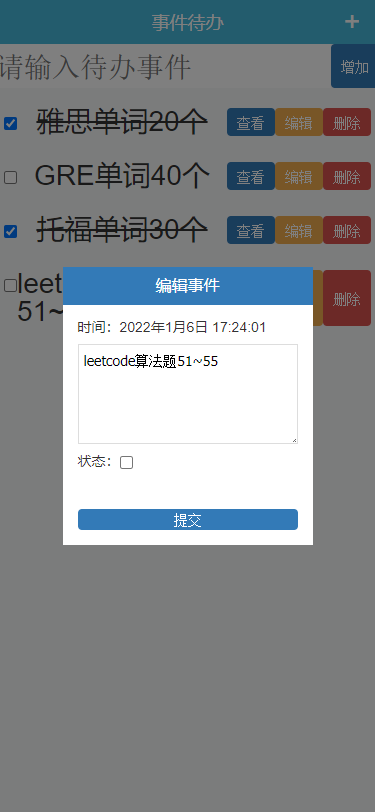
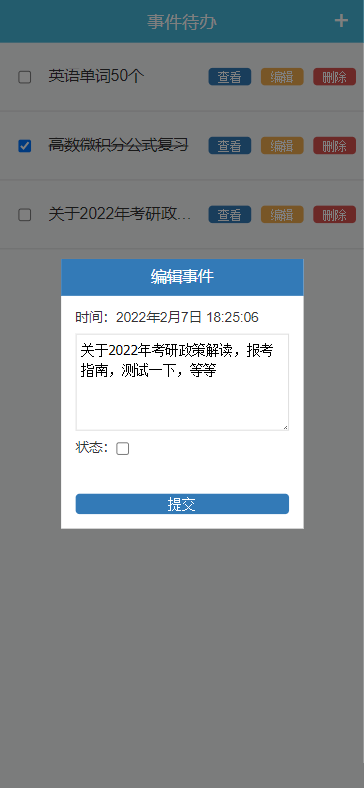
[upgrade]样式更新

diff --git a/src/assets/css/border.css b/src/assets/css/border.css
@@ -10,9 +10,8 @@
 .border-rightbottom,
 .border-topright,
 .border-bottomleft {
-  position: relative;
+    position: relative;
 }
-
 .border::before,
 .border-top::before,
 .border-right::before,
@@ -32,4 +31,152 @@
 .border-bottomleft::after {
   content: "\0020";
   overflow: hidden;
+  position: absolute;
+}
+/* border
+ * 因，边框是由伪元素区域遮盖在父级
+ * 故，子级若有交互，需要对子级设置
+ * 定位 及 z轴
+ */
+.border::before {
+  box-sizing: border-box;
+  top: 0;
+  left: 0;
+  height: 100%;
+  width: 100%;
+  border: 1px solid #eaeaea;
+  transform-origin: 0 0;
+}
+.border-top::before,
+.border-bottom::before,
+.border-topbottom::before,
+.border-topbottom::after,
+.border-topleft::before,
+.border-rightbottom::after,
+.border-topright::before,
+.border-bottomleft::before {
+  left: 0;
+  width: 100%;
+  height: 1px;
+}
+.border-right::before,
+.border-left::before,
+.border-rightleft::before,
+.border-rightleft::after,
+.border-topleft::after,
+.border-rightbottom::before,
+.border-topright::after,
+.border-bottomleft::after {
+  top: 0;
+  width: 1px;
+  height: 100%;
+}
+.border-top::before,
+.border-topbottom::before,
+.border-topleft::before,
+.border-topright::before {
+  border-top: 1px solid #eaeaea;
+  transform-origin: 0 0;
+}
+.border-right::before,
+.border-rightbottom::before,
+.border-rightleft::before,
+.border-topright::after {
+  border-right: 1px solid #eaeaea;
+  transform-origin: 100% 0;
+}
+.border-bottom::before,
+.border-topbottom::after,
+.border-rightbottom::after,
+.border-bottomleft::before {
+  border-bottom: 1px solid #eaeaea;
+  transform-origin: 0 100%;
+}
+.border-left::before,
+.border-topleft::after,
+.border-rightleft::after,
+.border-bottomleft::after {
+  border-left: 1px solid #eaeaea;
+  transform-origin: 0 0;
+}
+.border-top::before,
+.border-topbottom::before,
+.border-topleft::before,
+.border-topright::before {
+  top: 0;
+}
+.border-right::before,
+.border-rightleft::after,
+.border-rightbottom::before,
+.border-topright::after {
+  right: 0;
+}
+.border-bottom::before,
+.border-topbottom::after,
+.border-rightbottom::after,
+.border-bottomleft::after {
+  bottom: 0;
+}
+.border-left::before,
+.border-rightleft::before,
+.border-topleft::after,
+.border-bottomleft::before {
+  left: 0;
+}
+@media (max--moz-device-pixel-ratio: 1.49), (-webkit-max-device-pixel-ratio: 1.49), (max-device-pixel-ratio: 1.49), (max-resolution: 143dpi), (max-resolution: 1.49dppx) {
+  /* 默认值，无需重置 */
+}
+@media (min--moz-device-pixel-ratio: 1.5) and (max--moz-device-pixel-ratio: 2.49), (-webkit-min-device-pixel-ratio: 1.5) and (-webkit-max-device-pixel-ratio: 2.49), (min-device-pixel-ratio: 1.5) and (max-device-pixel-ratio: 2.49), (min-resolution: 144dpi) and (max-resolution: 239dpi), (min-resolution: 1.5dppx) and (max-resolution: 2.49dppx) {
+  .border::before {
+    width: 200%;
+    height: 200%;
+    transform: scale(.5);
+  }
+  .border-top::before,
+  .border-bottom::before,
+  .border-topbottom::before,
+  .border-topbottom::after,
+  .border-topleft::before,
+  .border-rightbottom::after,
+  .border-topright::before,
+  .border-bottomleft::before {
+    transform: scaleY(.5);
+  }
+  .border-right::before,
+  .border-left::before,
+  .border-rightleft::before,
+  .border-rightleft::after,
+  .border-topleft::after,
+  .border-rightbottom::before,
+  .border-topright::after,
+  .border-bottomleft::after {
+    transform: scaleX(.5);
+  }
+}
+@media (min--moz-device-pixel-ratio: 2.5), (-webkit-min-device-pixel-ratio: 2.5), (min-device-pixel-ratio: 2.5), (min-resolution: 240dpi), (min-resolution: 2.5dppx) {
+  .border::before {
+    width: 300%;
+    height: 300%;
+    transform: scale(.33333);
+  }
+  .border-top::before,
+  .border-bottom::before,
+  .border-topbottom::before,
+  .border-topbottom::after,
+  .border-topleft::before,
+  .border-rightbottom::after,
+  .border-topright::before,
+  .border-bottomleft::before {
+    transform: scaleY(.33333);
+  }
+  .border-right::before,
+  .border-left::before,
+  .border-rightleft::before,
+  .border-rightleft::after,
+  .border-topleft::after,
+  .border-rightbottom::before,
+  .border-topright::after,
+  .border-bottomleft::after {
+    transform: scaleX(.33333);
+  }
 }

diff --git a/src/components/TodoItem/index.js b/src/components/TodoItem/index.js
@@ -4,18 +4,18 @@ import './index.scss';
 
 function TodoItem (props) {
 
-  const { data, openCheckModal, openEditModal, completeItem, removeItem } = props;
+  const { dataItem, openCheckModal, openEditModal, completeItem, removeItem } = props;
 
   return (
     <li className="todo-item">
       <div className="check-box">
-        <input type="checkbox" checked={data.completed} onChange={() => completeItem(data.id)} />
+        <input type="checkbox" checked={dataItem.completed} onChange={() => completeItem(dataItem.id)} />
       </div>
-      <span className="content" style={{'textDecoration': data.completed ? 'line-through' : 'none'}}>{data.content}</span>
+      <span className="content" style={{'textDecoration': dataItem.completed ? 'line-through' : 'none'}}>{dataItem.content}</span>
       <div className="btn-group">
-        <button className="btn btn-primary" onClick={() => openCheckModal(data.id)}>查看</button>
-        <button className="btn btn-warning" onClick={() => openEditModal(data.id)}>编辑</button>
-        <button className="btn btn-danger" onClick={() => removeItem(data.id)}>删除</button>
+        <button className="btn btn-primary" onClick={() => openCheckModal(dataItem.id)}>查看</button>
+        <button className="btn btn-warning" onClick={() => openEditModal(dataItem.id)}>编辑</button>
+        <button className="btn btn-danger" onClick={() => removeItem(dataItem.id)}>删除</button>
       </div>
     </li>
   );

diff --git a/src/components/TodoItem/index.scss b/src/components/TodoItem/index.scss
@@ -1,9 +1,35 @@
 .todo-item {
   display: flex;
-  justify-content: space-between;
-  margin-bottom: 6px;
-  padding: 10px 4px;
+  flex-direction: row;
+  align-items: center;
+  height: .7rem;
+  border-bottom: 1px solid #ddd;
+
+  .check-box {
+    display: flex;
+    justify-content: center;
+    align-items: center;
+    width: .5rem;
+    height: .5rem;
+  }
+
+  .content {
+    flex: 1;
+    overflow:hidden;
+    text-overflow:ellipsis;
+    white-space:nowrap;
+    min-width:0;
+    font-size: .16rem;
+  }
+
   .btn-group {
     display: flex;
+    flex-direction: row;
+    width: 1.7rem;
+
+    .btn {
+      margin-left: .1rem;
+      font-size: .12rem;
+    }
   }
 }

diff --git a/src/components/Modal/EditModal/index.js b/src/components/Modal/EditModal/index.js
@@ -1,4 +1,4 @@
-import {useRef} from 'react';
+import {useRef, useCallback} from 'react';
 import './index.scss';
 import Modal from "../";
 import { formatDateTime } from "../../../libs/utils";
@@ -9,7 +9,7 @@ function EditModal (props) {
         inputRef = useRef(),
         checkRef = useRef();
 
-  const formatNewData = () => {
+  const formatNewData = useCallback(() => {
     const val = inputRef.current.value.trim(),
           valLen = val.length;
     if (valLen === 0) {
@@ -22,7 +22,7 @@ function EditModal (props) {
       completed: checkRef.current.checked
     }
     submitEdit(newData, data.id)
-  }
+  }, [submitEdit, data])
 
   return (
     <Modal

diff --git a/src/components/AddInput/index.scss b/src/components/AddInput/index.scss
@@ -1,14 +1,25 @@
 .input-wrapper {
+  display: flex;
+  flex-direction: row;
   position: fixed;
   top: .44rem;
   left: 0;
   width: 100%;
-  height: 0.44rem;
+  height: .38rem;
+  padding: .04rem .1rem;
+  box-sizing: border-box;
+  border-bottom: 1px solid #ddd;
+  background-color: #fff;
 
-  display: flex;
-  justify-content: center;
-  // margin-top: .44rem;
-  textarea {
-    // font-size: .16rem;
+  input {
+    flex: 1;
+    display: block;
+    height: .3rem;
+    border: 1px solid #ddd;
+    font-size: .14rem;
+    text-indent: .1rem;
+  }
+  button {
+    margin-left: .1rem;
   }
 }

diff --git a/src/App.js b/src/App.js
@@ -82,7 +82,7 @@ function App() {
               todoList.map((item, index) => {
                 return (
                   <TodoItem
-                   data={item}
+                    dataItem={item}
                    key={index}
                    openCheckModal={openCheckModal}
                    openEditModal={openEditModal}

diff --git a/src/assets/css/resets.css b/src/assets/css/resets.css
@@ -67,3 +67,10 @@ a{
   color: #25a4bb;
   text-decoration: none;
 }
+
+img {width: 100%;}
+
+.container {
+  padding: .82rem 0 .44rem 0;
+  box-sizing: border-box;
+}
